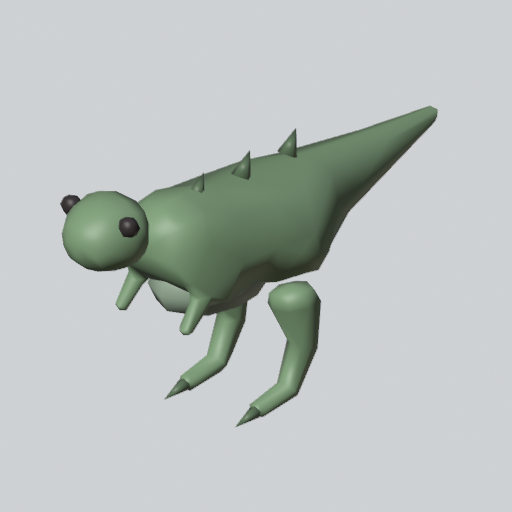
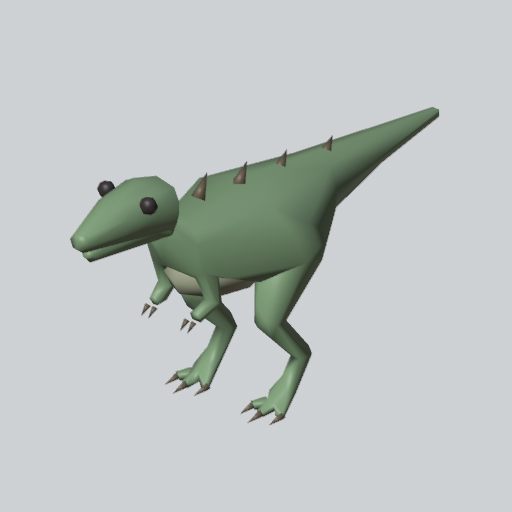
art: Compy (HUSK) v2 - longer tapered snout + jaw line, digitigrade legs, tucked arms, side preview
Reference-based proportions in the script header (long low skull, S-neck, level body with
hips over the feet, raised metatarsus, three forward toes, two-fingered arms, tail ~half the
length). 790/800 tris. render.py/build.py also write <key>_side.png.

Changed region(s): [[0.0938, 0.1875, 0.875, 0.8438], [0.4062, 0.25, 0.7188, 0.375]]

diff --git a/tools/art/models/dino/HUSK.py b/tools/art/models/dino/HUSK.py
@@ -1,11 +1,25 @@
-"""HUSK - the Compy: small, fast, light biped; long tail, big eyes (PLAN 11a T146 proof).
+"""HUSK - the Compy (Compsognathus): small, fast, light biped (PLAN 11a T146 proof).
 
 Fitted to today's blocky HUSK bounds (DinoLook: body 0.9 x 0.8 x 1.4, legs 0.7, head
 0.6 x 0.55 x 0.8): x +-0.45, y -1.1..0.635, z -1.38..1.82 about the Root's centre.
 Points below are Roblox studs (Y up, -Z forward) via lp.rbx.
+
+Reference (paleo descriptions, 2026-10-26: Wikipedia / Britannica / Ostrom 1978 specimens,
+89 cm German + 125 cm French): long narrow skull with a tapered pointed snout on a long,
+flexible S-curved neck; body held level with the hips over the feet; short slender arms,
+two clawed fingers; long slender legs, shin longer than thigh, raised metatarsus (walks on
+the toes), three forward clawed toes; tail longer than head + body, held straight out.
+Proportions used (of the 3.2-stud nose-to-tail length, head stylised ~1.5x for readability):
+  head 0.17 (snout 60% of it, tapering to a point) | neck 0.12, S-curve up |
+  body chest-to-hip 0.17, level | tail 0.50 from the hips, level, thinning to a point |
+  hind leg ~ hip height: thigh 0.35 forward-down, shin 0.40 back-down, metatarsus 0.25 |
+  arm 0.12 of length, folded under the chest | feet under the hips (centre of mass).
+Lowest tier = natural colours (DinoLook green, tan belly, brown claws/spikes).
 """
 
 GREEN = (126, 196, 110)  # DinoLook HUSK colour; the rest follow ArtSlot.paints
+TAN = (232, 214, 165)
+BROWN = (84, 64, 42)
 
 
 def _mix(a, b, t):
@@ -14,40 +28,57 @@ def _mix(a, b, t):
 
 def build(lp):
     r = lp.rbx
-    # torso, neck, tail, legs and little arms on one skin skeleton
+    # torso level, S-curved neck, long level tail
     pts = [
-        r(0, 0.0, 0.3), r(0, 0.05, -0.35), r(0, 0.3, -0.75),  # 0 hip, 1 chest, 2 neck
-        r(0, 0.05, 0.9), r(0, 0.1, 1.4), r(0, 0.15, 1.8),  # 3-5 tail
+        r(0, 0.0, 0.2), r(0, -0.02, -0.34),  # 0 hip, 1 chest
+        r(0, 0.08, -0.56), r(0, 0.28, -0.68),  # 2-3 neck: forward, then up (S-curve)
+        r(0, 0.04, 0.7), r(0, 0.07, 1.2), r(0, 0.1, 1.8),  # 4-6 tail
+        r(0, 0.01, -0.07),  # 7 mid-back, keeps the back line smooth
     ]
-    rad = [0.38, 0.34, 0.19, 0.22, 0.12, 0.04]
-    edges = [(0, 1), (1, 2), (0, 3), (3, 4), (4, 5)]
-    for x in (-0.25, 0.25):
-        i = len(pts)  # thigh, shin, ankle, toe
-        pts += [r(x, -0.3, 0.2), r(x, -0.75, 0.35), r(x, -1.02, 0.2), r(x, -1.06, -0.1)]
-        rad += [0.2, 0.09, 0.07, 0.06]
+    rad = [0.34, 0.26, 0.13, 0.11, 0.2, 0.11, 0.035, 0.31]
+    edges = [(0, 7), (7, 1), (1, 2), (2, 3), (0, 4), (4, 5), (5, 6)]
+    toes = []
+    for s in (-1, 1):
+        x = 0.27 * s
+        i = len(pts)  # thigh (forward-down), knee, ankle (back, raised), ball of the foot
+        pts += [r(x, -0.18, 0.2), r(x, -0.5, -0.04), r(x, -0.82, 0.3), r(x, -1.04, 0.12)]
+        rad += [0.19, 0.1, 0.06, 0.055]
         edges += [(0, i), (i, i + 1), (i + 1, i + 2), (i + 2, i + 3)]
-        j = len(pts)  # arm
-        pts += [r(x * 0.9, -0.15, -0.5), r(x * 0.9, -0.35, -0.68)]
-        rad += [0.06, 0.04]
-        edges += [(1, j), (j, j + 1)]
-    body = lp.decimate_to(lp.skin("body", pts, edges, rad, subdiv=1), 430)
+        for dx in (-0.08, 0.0, 0.08):  # three forward toes
+            t = len(pts)
+            tip = (x + dx * 1.3, -1.07, -0.1 if dx == 0 else -0.04)
+            pts.append(r(*tip))
+            rad.append(0.03)
+            edges.append((i + 3, t))
+            toes.append(tip)
+        j = len(pts)  # short arm folded under the chest: shoulder, elbow, hand
+        pts += [r(0.15 * s, -0.1, -0.42), r(0.17 * s, -0.3, -0.36), r(0.14 * s, -0.36, -0.52)]
+        rad += [0.07, 0.055, 0.045]
+        edges += [(1, j), (j, j + 1), (j + 1, j + 2)]
+    body = lp.decimate_to(lp.skin("body", pts, edges, rad, subdiv=1), 415)
 
+    # long low skull: cranium -> tapered snout, with a lower jaw below it (the jaw line)
     head = lp.skin(
         "head",
-        [r(0, 0.36, -0.85), r(0, 0.42, -1.05), r(0, 0.36, -1.36)],
-        [(0, 1), (1, 2)],
-        [0.2, 0.29, 0.15],
+        [r(0, 0.32, -0.5), r(0, 0.42, -0.86), r(0, 0.39, -1.16), r(0, 0.35, -1.38),
+         r(0, 0.28, -0.92), r(0, 0.26, -1.3)],
+        [(0, 1), (1, 2), (2, 3), (0, 4), (4, 5)],
+        [0.17, 0.19, 0.12, 0.06, 0.1, 0.05],
     )
     head = lp.decimate_to(head, 150)
 
-    belly = lp.decimate_to(lp.ellipsoid("belly", r(0, -0.2, -0.15), (0.27, 0.45, 0.24), 10, 6), 70)
+    belly = lp.decimate_to(lp.ellipsoid("belly", r(0, -0.17, -0.1), (0.24, 0.42, 0.2), 10, 6), 70)
 
-    eyes = [lp.ellipsoid(f"eye{s}", r(s * 0.2, 0.52, -1.12), (0.065, 0.065, 0.065), 6, 4) for s in (-1, 1)]
+    eyes = [lp.ellipsoid(f"eye{s}", r(s * 0.15, 0.5, -0.92), (0.055, 0.055, 0.055), 6, 4) for s in (-1, 1)]
     eye = lp.join("eye", eyes)
 
-    spikes = [lp.cone(f"s{i}", r(0, 0.33, z), r(0, 0.48, z + 0.08), 0.06, 5) for i, z in enumerate((-0.3, 0.1, 0.5))]
-    claws = [lp.cone(f"c{s}", r(s * 0.25, -1.06, -0.08), r(s * 0.25, -1.1, -0.26), 0.04, 5) for s in (-1, 1)]
-    dark = lp.join("dark", spikes + claws)
+    spikes = [lp.cone(f"s{i}", r(0, 0.28 - 0.04 * i, z), r(0, 0.42 - 0.05 * i, z + 0.08), 0.05, 4)
+              for i, z in enumerate((-0.3, 0.05, 0.4, 0.8))]
+    claws = [lp.cone(f"c{k}", r(tx, ty, tz + 0.02), r(tx, ty - 0.02, tz - 0.1), 0.025, 4)
+             for k, (tx, ty, tz) in enumerate(toes)]
+    fingers = [lp.cone(f"f{s}{d}", r(0.14 * s + d, -0.37, -0.54), r(0.14 * s + d, -0.42, -0.6), 0.02, 4)
+               for s in (-1, 1) for d in (-0.025, 0.025)]  # two fingers per hand
+    dark = lp.join("dark", spikes + claws + fingers)
 
     return {
         "batch": "11a",
@@ -58,8 +89,8 @@ def build(lp):
         "roles": {"head": "head"},
         "colors": {
             "body": GREEN,
-            "belly": _mix(GREEN, (255, 255, 255), 0.35),
-            "dark": _mix(GREEN, (0, 0, 0), 0.45),
+            "belly": _mix(GREEN, TAN, 0.7),
+            "dark": BROWN,
             "eye": (25, 20, 20),
         },
     }

diff --git a/tools/art/render.py b/tools/art/render.py
@@ -1,6 +1,6 @@
 """Preview renders for the art pass (PLAN 11a T146, #430). Runs inside Blender only.
 
-One 512 px 3/4 front view per model: Workbench, studio light so smooth shading reads,
+One 512 px 3/4 front view per model (plus a side view, `<key>_side.png`): Workbench, studio light so smooth shading reads,
 object colours = the paint-group preview colours, neutral grey background, orthographic
 camera framed on the model's bounds (the same framing rule for every model).
 """
@@ -16,7 +16,11 @@ SIZE = 512
 BACKGROUND = (0.62, 0.64, 0.66)
 
 
-def render(path, objs):
+THREE_QUARTER = (-0.9, 1.0, 0.65)
+SIDE = (-1.0, 0.0, 0.05)  # the model's right flank, near eye level: proportions
+
+
+def render(path, objs, view=THREE_QUARTER):
     scene = bpy.context.scene
     scene.render.engine = "BLENDER_WORKBENCH"
     scene.render.resolution_x = SIZE
@@ -40,10 +44,10 @@ def render(path, objs):
     centre = Vector((lo + hi) / 2)
     extent = max(hi - lo)
     # 3/4 view: front (+Y), the model's left (-X... its right faces the camera), from above
-    direction = Vector((-0.9, 1.0, 0.65)).normalized()
+    direction = Vector(view).normalized()
     cam_data = bpy.data.cameras.new("preview")
     cam_data.type = "ORTHO"
-    cam_data.ortho_scale = extent * 0.95
+    cam_data.ortho_scale = extent * (0.95 if view == THREE_QUARTER else 1.1)  # side: whole length
     cam_data.clip_end = extent * 20
     cam = bpy.data.objects.new("preview", cam_data)
     scene.collection.objects.link(cam)

diff --git a/tools/art/build.py b/tools/art/build.py
@@ -63,6 +63,7 @@ def main(kind, key):
     png.parent.mkdir(parents=True, exist_ok=True)
     lowpoly.export_fbx(fbx, pieces)
     render.render(png, pieces)
+    render.render(png.with_name(f"{key}_side.png"), pieces, render.SIDE)
 
     manifest_path = ART / "manifest.json"
     manifest = json.loads(manifest_path.read_text()) if manifest_path.exists() else {}
